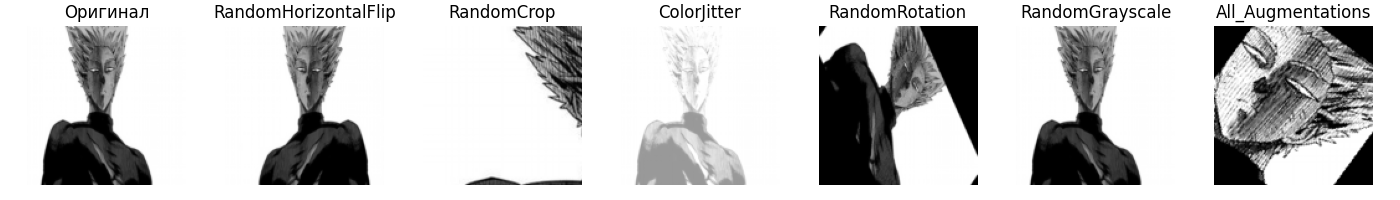
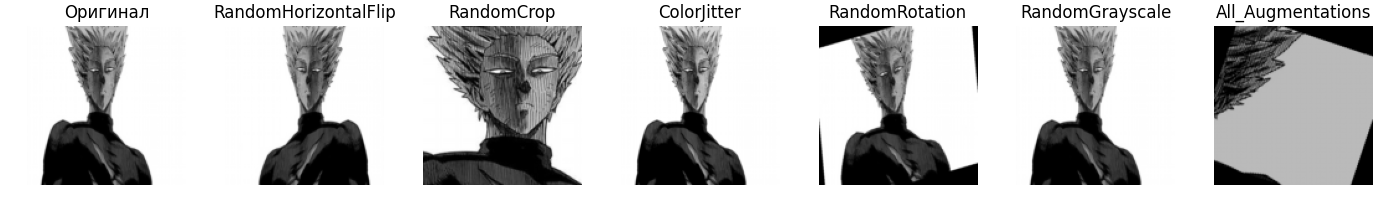
change params to example version

Changed region(s): [[0.2764, 0.12, 0.5529, 0.93], [0.86, 0.12, 0.9829, 0.93], [0.5836, 0.12, 0.7064, 0.93]]

diff --git a/standard_augs_experiment.py b/standard_augs_experiment.py
@@ -10,11 +10,11 @@ output_dir.mkdir(parents=True, exist_ok=True)
 
 # создаю стандартные аугментации
 standard_augmentations = {
-    'RandomHorizontalFlip': transforms.RandomHorizontalFlip(p=1),
-    'RandomCrop': transforms.RandomCrop(150),
-    'ColorJitter': transforms.ColorJitter(brightness=1.6, contrast=1.2, saturation=1.6, hue=0.1),
-    'RandomRotation': transforms.RandomRotation(degrees=55),
-    'RandomGrayscale': transforms.RandomGrayscale(p=1),
+    'RandomHorizontalFlip': transforms.RandomHorizontalFlip(p=1.0),
+    'RandomCrop': transforms.RandomCrop(200, padding=20),
+    'ColorJitter': transforms.ColorJitter(brightness=0.5, contrast=0.5, saturation=0.5, hue=0.1),
+    'RandomRotation': transforms.RandomRotation(degrees=30),
+    'RandomGrayscale': transforms.RandomGrayscale(p=1.0),
 }
 
 all_augs = transforms.Compose(list(standard_augmentations.values()))
